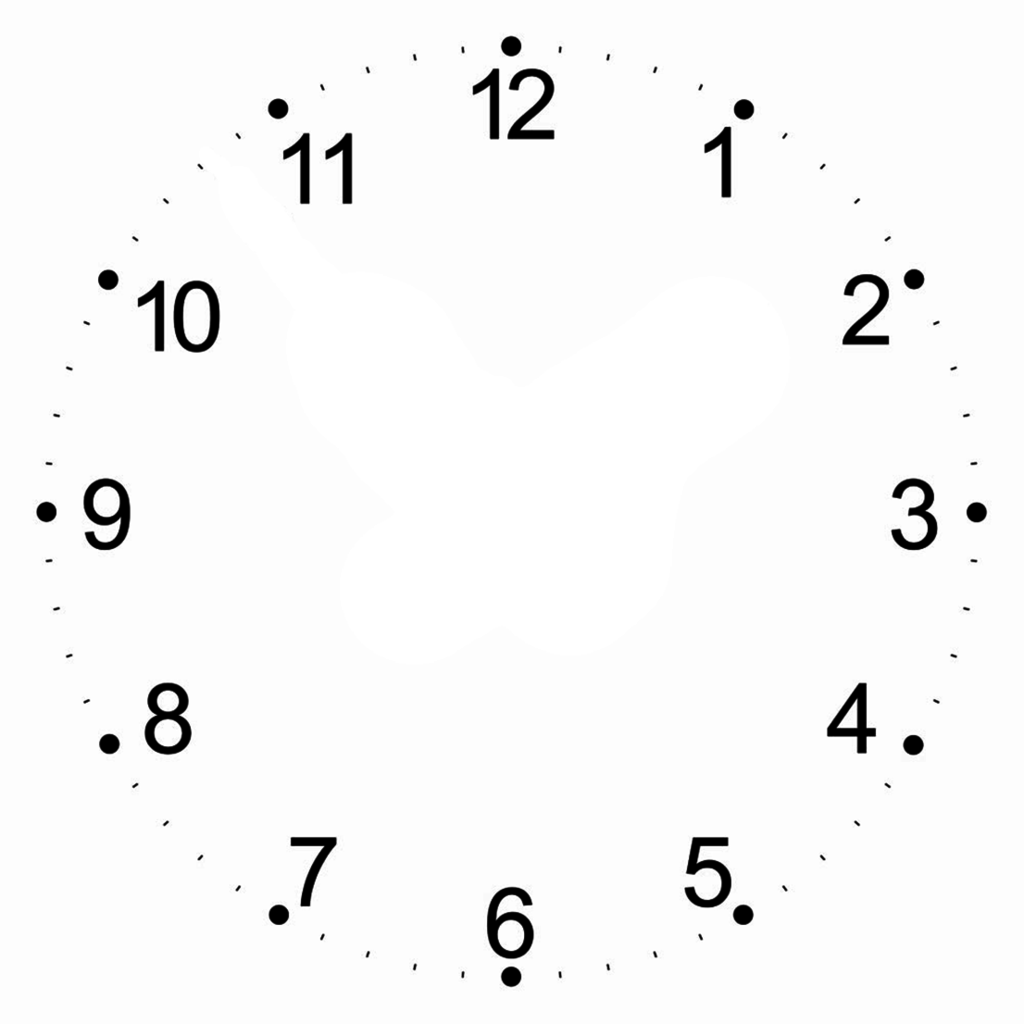
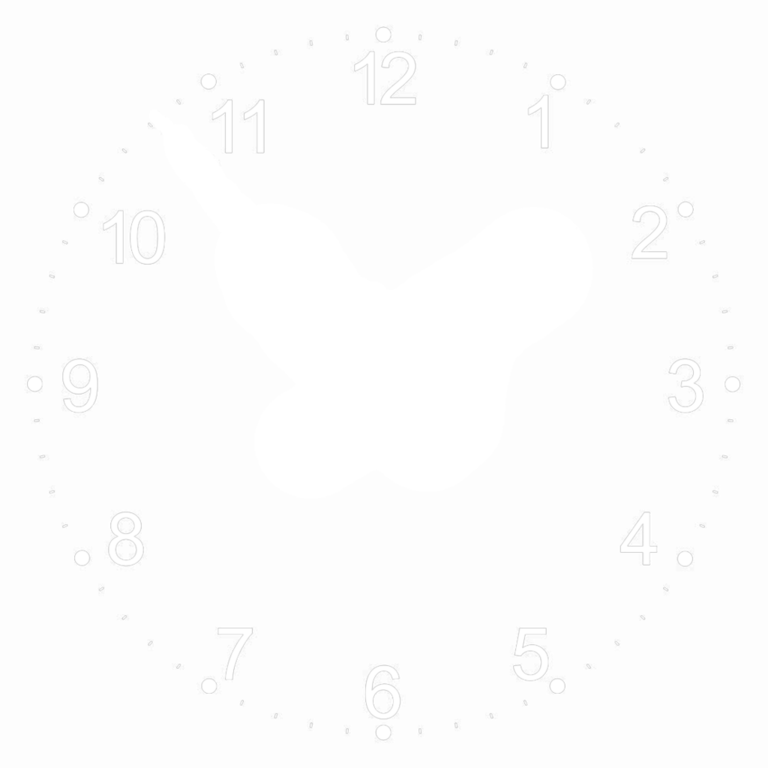
für dich marvin

diff --git a/src/smartMirror/widget/AdvancedClock.java b/src/smartMirror/widget/AdvancedClock.java
@@ -81,13 +81,14 @@ public class AdvancedClock extends Widget {
 		Graphics2D g2d = (Graphics2D) g;
 
 		g2d.setRenderingHint(RenderingHints.KEY_ANTIALIASING, RenderingHints.VALUE_ANTIALIAS_ON);
+		g2d.setRenderingHint(RenderingHints.KEY_RENDERING, RenderingHints.VALUE_RENDER_QUALITY);
 		
 		g2d.drawImage(img, area.getxCoord(), area.getyCoord(), area.getWidth(), area.getHight(), null);
 		drawH(g2d);
 		drawS(g2d);
 		drawM(g2d);
-		g2d.setPaint(Color.BLACK);
-		g2d.drawArc(mx - 10, my - 10,(int) (0.05f * area.getWidth()),(int) (0.05f * area.getWidth()), 0, 360);
+		g2d.setPaint(Color.WHITE);
+		//g2d.drawArc(mx - 10, my - 10,(int) (0.05f * area.getWidth()),(int) (0.05f * area.getWidth()), 0, 360);
 		g2d.fillArc(mx - 10, my - 10,(int) (0.05f * area.getWidth()),(int) (0.05f * area.getWidth()), 0, 360);
 	}
 
@@ -99,9 +100,9 @@ public class AdvancedClock extends Widget {
 
 		g2d.rotate(Math.toRadians(pos), area.getxCoord() + area.getWidth() / 2, area.getyCoord() + area.getHight() / 2);
 
-		g2d.setPaint(Color.BLACK);
+		g2d.setPaint(Color.WHITE);
 		g2d.fill(stundenzeiger);
-		g2d.draw(stundenzeiger);
+		//g2d.draw(stundenzeiger);
 
 		g2d.rotate(-Math.toRadians(pos), area.getxCoord() + area.getWidth() / 2,
 				area.getyCoord() + area.getHight() / 2);
@@ -115,9 +116,9 @@ public class AdvancedClock extends Widget {
 
 		g2d.rotate(Math.toRadians(pos), area.getxCoord() + area.getWidth() / 2, area.getyCoord() + area.getHight() / 2);
 
-		g2d.setPaint(Color.BLACK);
+		g2d.setPaint(Color.WHITE);
 		g2d.fill(minutenzeiger);
-		g2d.draw(minutenzeiger);
+		//g2d.draw(minutenzeiger);
 
 		g2d.rotate(-Math.toRadians(pos), area.getxCoord() + area.getWidth() / 2,
 				area.getyCoord() + area.getHight() / 2);
@@ -131,9 +132,9 @@ public class AdvancedClock extends Widget {
 
 		g2d.rotate(Math.toRadians(pos), area.getxCoord() + area.getWidth() / 2, area.getyCoord() + area.getHight() / 2);
 
-		g2d.setPaint(Color.red);
+		g2d.setPaint(Color.RED);
 		g2d.fill(sekundenzeiger);
-		g2d.draw(sekundenzeiger);
+		//g2d.draw(sekundenzeiger);
 
 		g2d.rotate(-Math.toRadians(pos), area.getxCoord() + area.getWidth() / 2,
 				area.getyCoord() + area.getHight() / 2);
